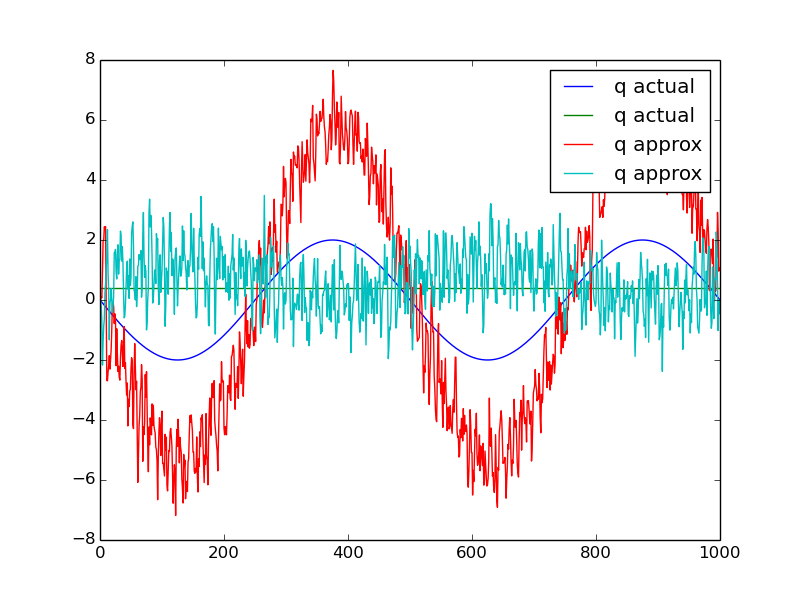
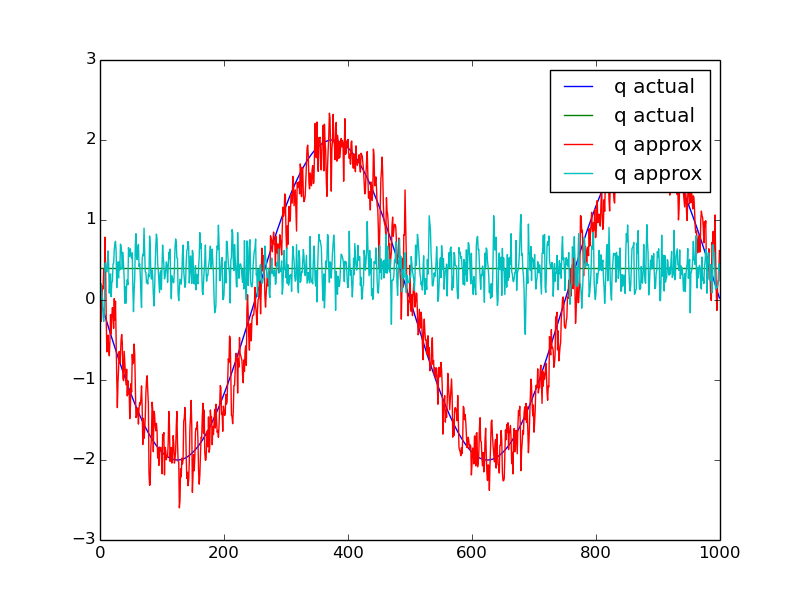
submitting ass3

diff --git a/SYDE750_ass3/q6.py b/SYDE750_ass3/q6.py
@@ -10,7 +10,7 @@ def gen_rand_uc_vecs(dims, number):
 	return vecs / mags[..., np.newaxis]
 
 def get_2d_decoders(A, dx, x_vals):
-	gamma = np.dot(A, A.T) / S
+	gamma = np.dot(A, A.T) * dx
 	# so if I have a two dimensional upsilon....
 	upsilon_0 = np.dot(A, x_vals[0]) * dx
 	upsilon_1 = np.dot(A, x_vals[1]) * dx
